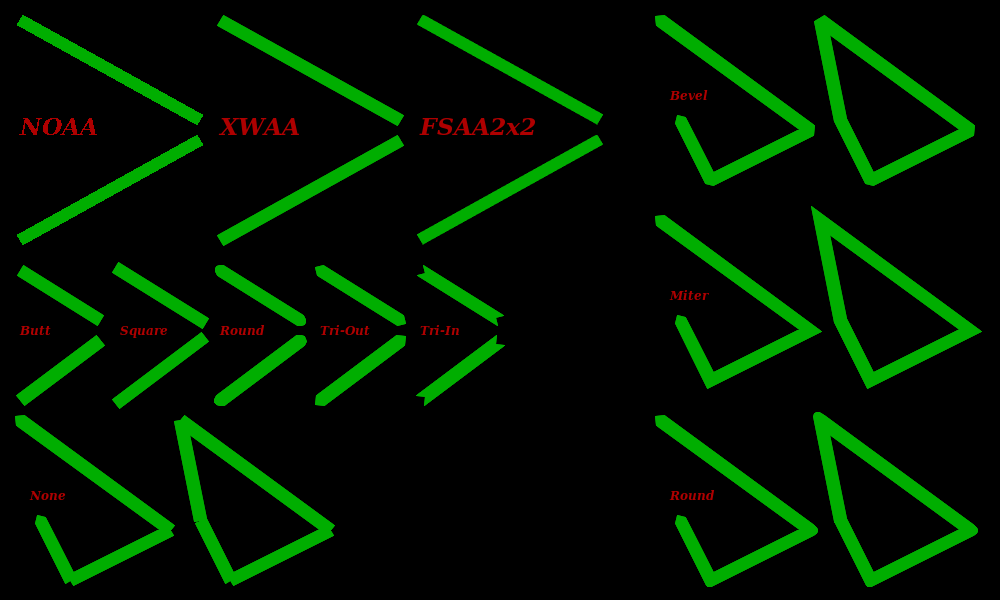
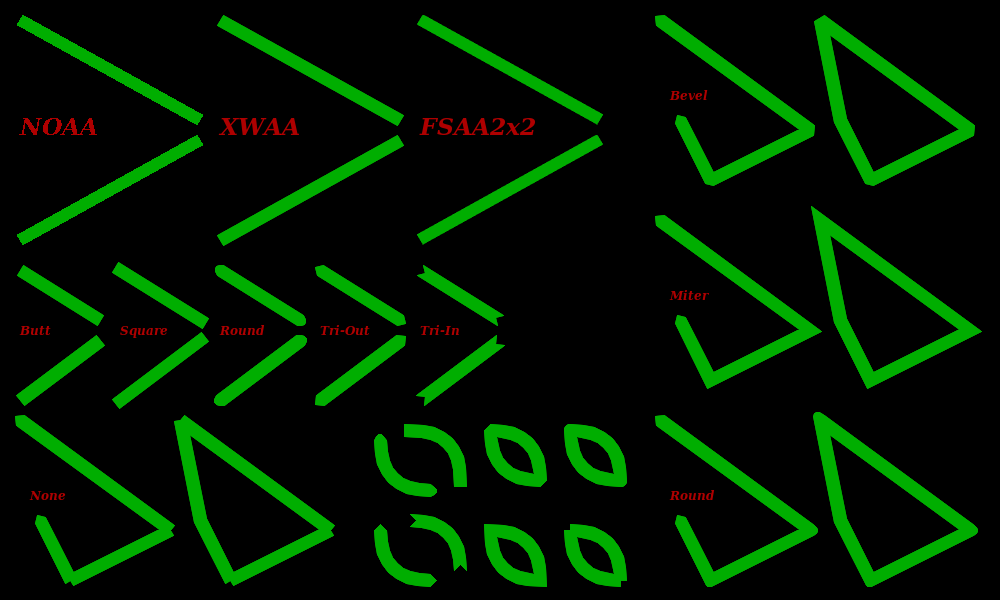
Working on thick polybezier

Changed region(s): [[0.372, 0.69, 0.651, 0.99]]

diff --git a/src/Pt-Gfx/ImagePainter2.cpp b/src/Pt-Gfx/ImagePainter2.cpp
@@ -131,7 +131,7 @@ static inline void generateQuadraticBezierPoints(std::vector<PointF>& dst, float
         const float c = t * t;
         const float x = a * x1 + b * x2 + c * x3;
         const float y = a * y1 + b * y2 + c * y3;
-        if( dst.empty() || (dst.back().x() != x && dst.back().y() != y) ) dst.push_back( PointF(x, y) );
+        if( dst.empty() || dst.back().x() != x || dst.back().y() != y ) dst.push_back( PointF(x, y) );
     }
 }
 
@@ -566,10 +566,8 @@ void ImagePainter2::drawQuadraticPolybezier(const PointF* ps, const size_t point
         convertPointTrunc(points, ps, pointCount);
         if(autoClose) points.push_back( Point( (Pt::int32_t) ps[0].x(), (Pt::int32_t) ps[0].y() ) );
         // Rasterize the bezier
-        if(_rasterizer->pen().size() == 1) {
-            _rasterizer->strokeOnePixelQuadraticPolybezier(points.data(), points.size());
-            return;
-        }
+        _rasterizer->strokeOnePixelQuadraticPolybezier(points.data(), points.size());
+        return;
     }
 
     // Check if there is no actual point
@@ -577,7 +575,7 @@ void ImagePainter2::drawQuadraticPolybezier(const PointF* ps, const size_t point
 
     // Generate a polygon that approximates the polybezier
     const size_t        adjPC = autoClose ? pointCount : (pointCount - 1);
-    std::vector<PointF> pointsF;
+    std::vector<PointF> pointsF, pointsFTmp;
 
     for(size_t i = 0; i < adjPC; i += 2) {
         // Calculate the coordinates and length
@@ -596,8 +594,19 @@ void ImagePainter2::drawQuadraticPolybezier(const PointF* ps, const size_t point
         const float l21  = Gfx::Math::fastSqrt(dx21 * dx21 + dy21 * dy21);
         const float l31  = l32 + l21;
         // Generate points for one quadratic bezier curve
-        std::vector<PointF> pointsFTmp;
-        generateQuadraticBezierPoints(pointsFTmp, x1, y1, x2, y2, x3, y3, ceil(l31 / 20.0f) + 1);
+        pointsFTmp.clear();
+        generateQuadraticBezierPoints(pointsFTmp, x1, y1, x2, y2, x3, y3, ceil(l31 / 16.0f) + 1);
+        // Concat the points
+        for(size_t j = 0; j < pointsFTmp.size(); ++j) {
+            // Skip similar points
+            if(!pointsF.empty()) {
+                const float dx = ::fabs( pointsF.back().x() - pointsFTmp[j].x() );
+                const float dy = ::fabs( pointsF.back().y() - pointsFTmp[j].y() );
+                if(dx < 0.5f && dy < 0.5f) continue;
+            }
+            // Store the points
+            pointsF.push_back(pointsFTmp[j]);
+        }
     }
 
     // Rasterize the polygon
@@ -948,6 +957,12 @@ bool ImagePainter2::combineLineSegmentForSolidOpenPolygon(std::vector<PointF>& p
     PointF intersect;
     if(!intersectLine(inLine, intersect, oline1a, oline1b, oline2a, oline2b)) return false;
 
+    const PointF& ochk1 = oline1b - intersect;
+    const PointF& ochk2 = oline2a - intersect;
+
+    inLine |= ( fabs(ochk1.x()) <= 0.8f && fabs(ochk1.y()) <= 0.8f ) || // For preventing artifacts
+              ( fabs(ochk2.x()) <= 0.8f && fabs(ochk2.y()) <= 0.8f );
+
     // Store the "outside" line's points to the main polygon buffer
     const Pen::JoinStyle js1 = inLine ? Pen::MiterJoin : _rasterizer->pen().joinStyle();
     switch(js1) {
@@ -993,6 +1008,12 @@ bool ImagePainter2::combineLineSegmentForSolidOpenPolygon(std::vector<PointF>& p
 
     // Intersect the "inside" lines
     if(!intersectLine(inLine, intersect, iline1a, iline1b, iline2a, iline2b)) return false;
+
+    const PointF& ichk1 = iline1b - intersect;
+    const PointF& ichk2 = iline2a - intersect;
+
+    inLine |= ( fabs(ichk1.x()) <= 0.8f && fabs(ichk1.y()) <= 0.8f ) || // For preventing artifacts
+              ( fabs(ichk2.x()) <= 0.8f && fabs(ichk2.y()) <= 0.8f );
 
     // Store the "inside" line's points to the auxiliary polygon buffer
     const Pen::JoinStyle js2 = inLine ? Pen::MiterJoin : _rasterizer->pen().joinStyle();
@@ -1056,6 +1077,12 @@ bool ImagePainter2::combineLineSegmentForSolidClosedPolygon(std::vector<PointF>&
     PointF intersect;
     if(!intersectLine(inLine, intersect, oline1a, oline1b, oline2a, oline2b)) return false;
 
+    const PointF& ochk1 = oline1b - intersect;
+    const PointF& ochk2 = oline2a - intersect;
+
+    inLine |= ( fabs(ochk1.x()) <= 0.8f && fabs(ochk1.y()) <= 0.8f ) || // For preventing artifacts
+              ( fabs(ochk2.x()) <= 0.8f && fabs(ochk2.y()) <= 0.8f );
+
     // Store the "outside" line's points
     const Pen::JoinStyle js1 = inLine ? Pen::MiterJoin : _rasterizer->pen().joinStyle();
     outer.pop_back();
@@ -1100,6 +1127,12 @@ bool ImagePainter2::combineLineSegmentForSolidClosedPolygon(std::vector<PointF>&
 
     // Intersect the "inside" lines
     if(!intersectLine(inLine, intersect, iline1a, iline1b, iline2a, iline2b)) return false;
+
+    const PointF& ichk1 = iline1b - intersect;
+    const PointF& ichk2 = iline2a - intersect;
+
+    inLine |= ( fabs(ichk1.x()) <= 0.8f && fabs(ichk1.y()) <= 0.8f ) || // For preventing artifacts
+              ( fabs(ichk2.x()) <= 0.8f && fabs(ichk2.y()) <= 0.8f );
 
     // Store the "inside" line's points
     const Pen::JoinStyle js2 = inLine ? Pen::MiterJoin : _rasterizer->pen().joinStyle();

diff --git a/src/Pt-Gfx/tests/ImagePainterTest2.cpp b/src/Pt-Gfx/tests/ImagePainterTest2.cpp
@@ -68,7 +68,7 @@ using namespace Pt::Gfx;
 
 #define TEST_DRAW_RECTANGLES_FILLED_RECTANGLES  0
 #define TEST_DRAW_ELLIPSES_ARCS                 0
-#define TEST_DRAW_THICK_ELLIPSES_ARCS           0
+#define TEST_DRAW_THICK_ELLIPSES_ARCS           1
 
 #define TEST_DRAW_SOLID_FILLED_POLYGONS         0
 #define TEST_DRAW_GRADIENT_FILLED_POLYGONS      0
